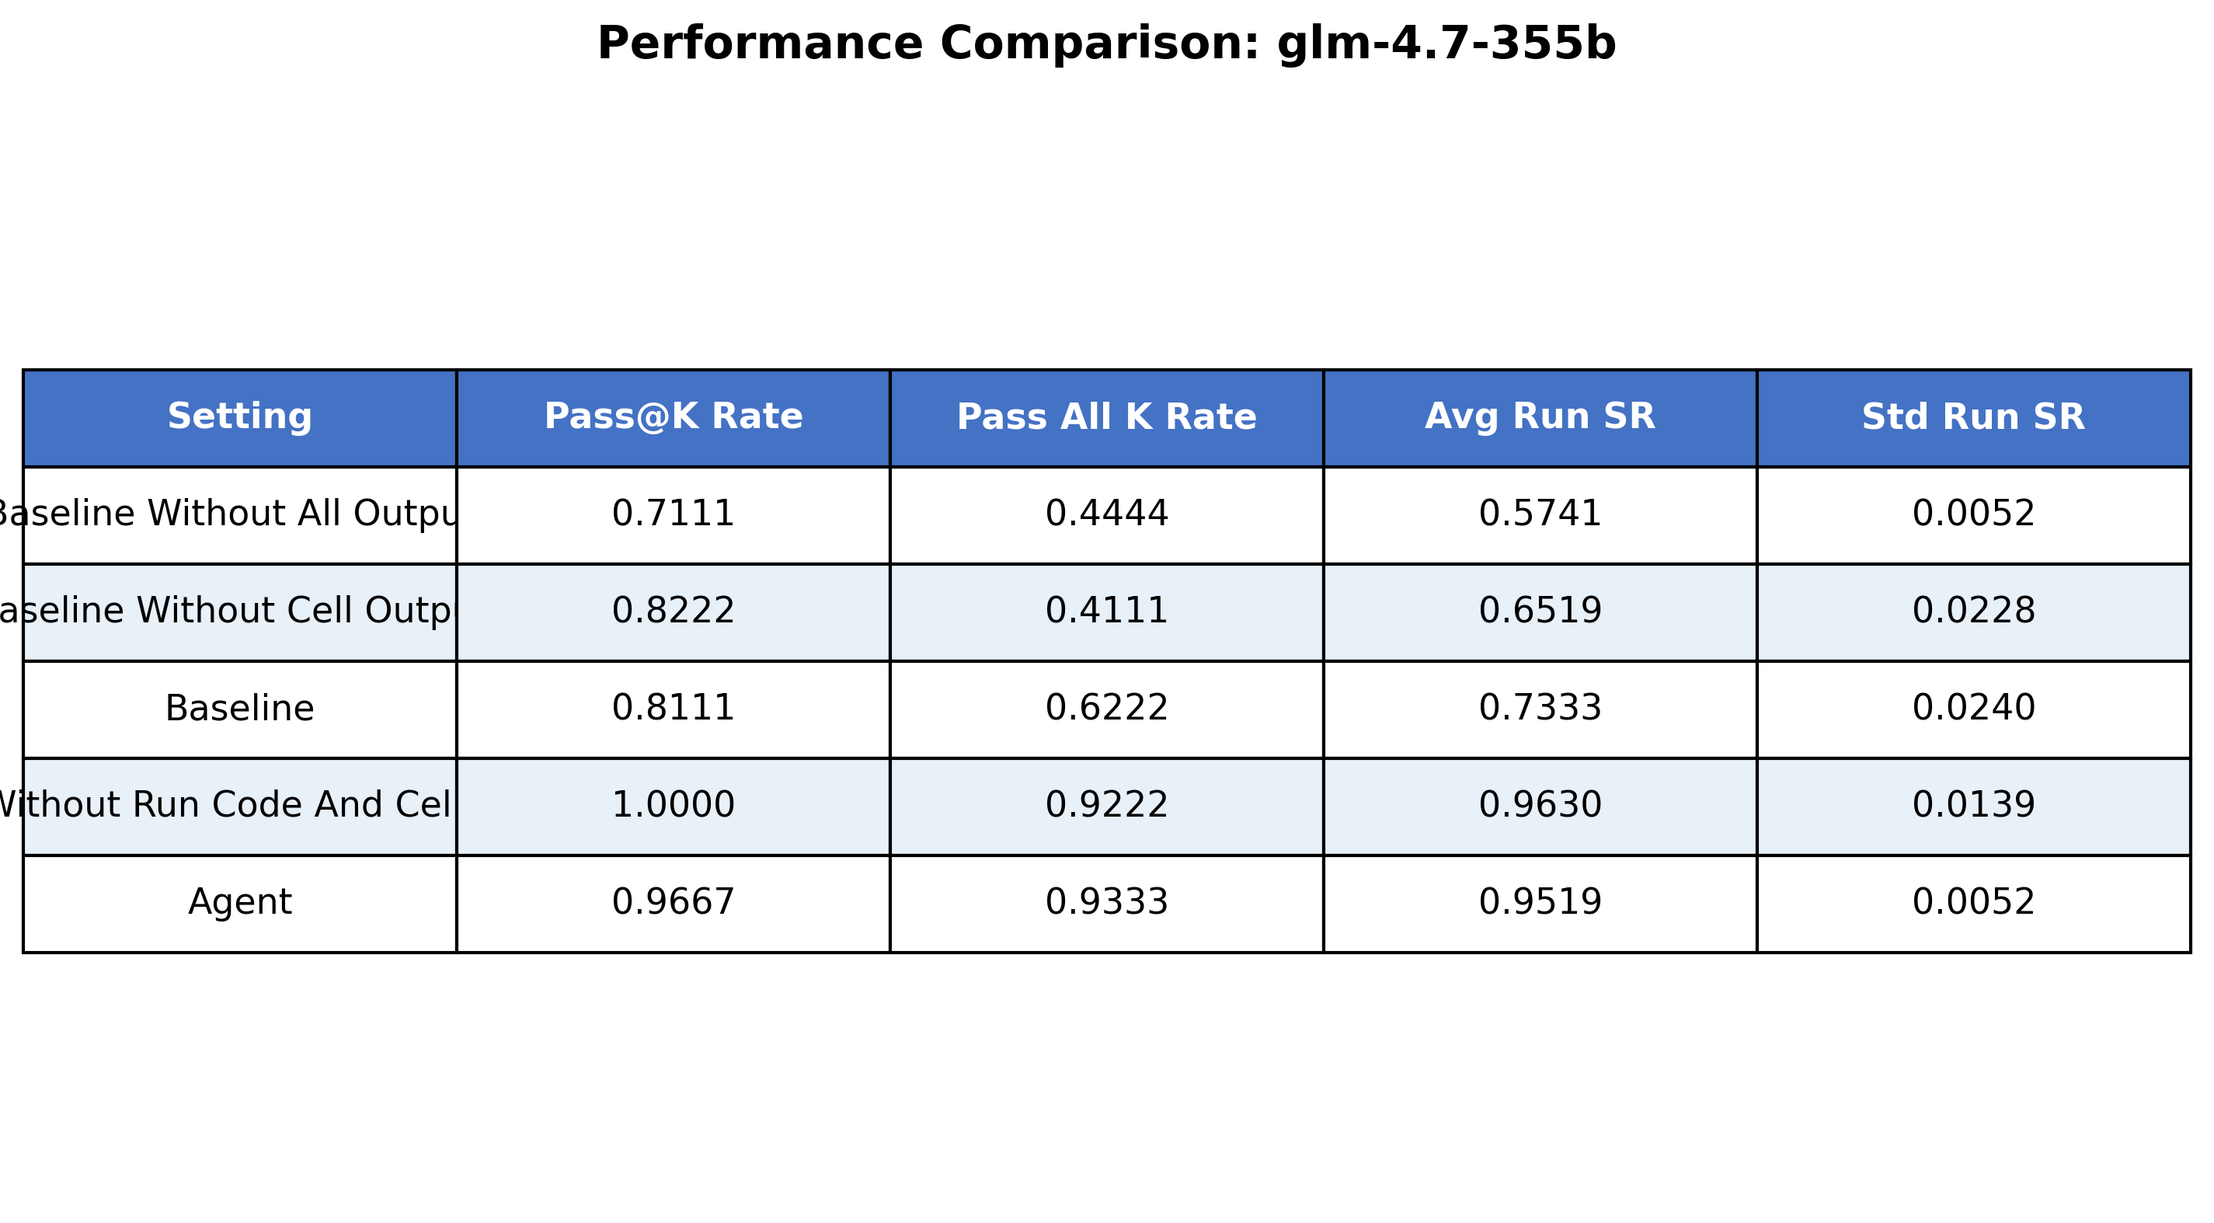
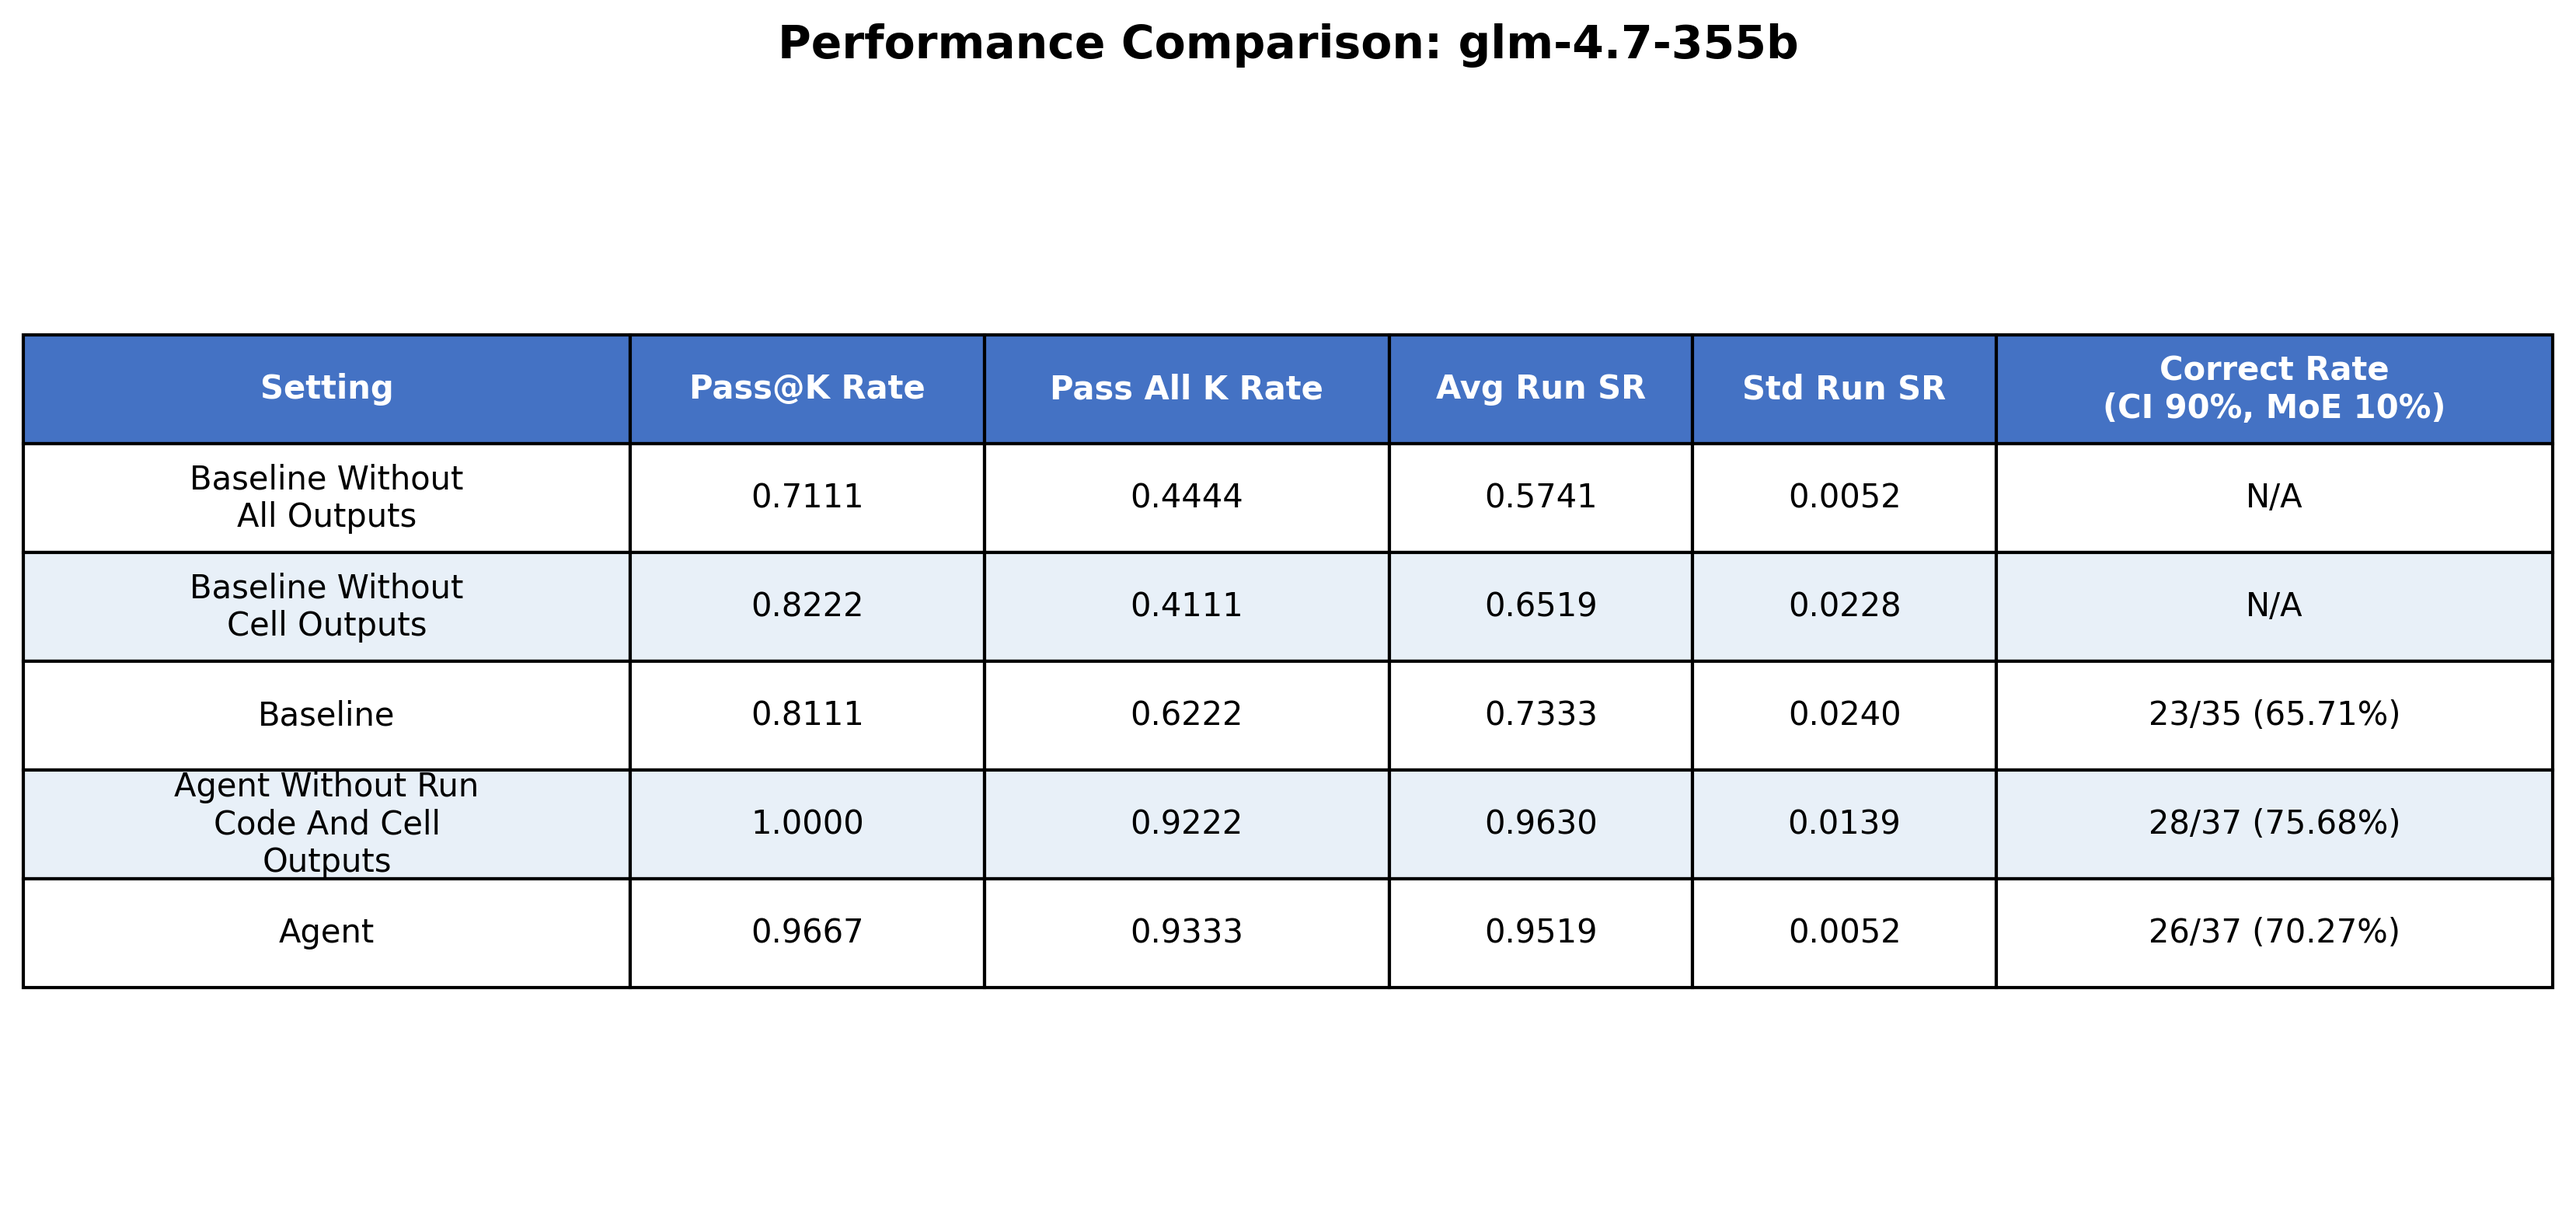
update performance summary to include manual validation

Changed region(s): [[0.0, 0.249, 0.9993, 0.8094], [0.2498, 0.0, 0.7495, 0.0623]]

diff --git a/data_analysis/summarize_plots.py b/data_analysis/summarize_plots.py
@@ -7,6 +7,7 @@ taken by the LLM agent at each step of execution.
 
 import json
 import os
+import textwrap
 from collections import defaultdict
 from pathlib import Path
 import matplotlib.pyplot as plt
@@ -356,6 +357,49 @@ def create_comparison_chart(path1: str, path2: str, title: str, output_path: Pat
     print(f"Saved comparison chart to {final_path}")
     plt.close()
 
+
+def load_manual_validation_outcome(llm_dir: Path):
+    """Load the manual validation outcome string for a model directory if available."""
+    labeled_instances_path = llm_dir / 'analysis' / 'stratified_sampled_instances_labeled.json'
+    if not labeled_instances_path.exists():
+        return None
+
+    try:
+        with open(labeled_instances_path, 'r', encoding='utf-8') as f:
+            labeled_instances = json.load(f)
+    except (OSError, json.JSONDecodeError) as e:
+        print(f"Warning: failed to load manual validation from {labeled_instances_path}: {e}")
+        return None
+
+    manual_validation = labeled_instances.get('manual_validation', {})
+    if not isinstance(manual_validation, dict):
+        return None
+
+    validation_outcome = manual_validation.get('validation_outcome')
+    if isinstance(validation_outcome, str) and validation_outcome.strip():
+        return validation_outcome
+
+    return None
+
+
+def format_setting_display_name(setting: str, width: int = 18):
+    """Format setting names for compact table display without overflowing cells."""
+    return textwrap.fill(setting.replace('_', ' ').title(), width=width)
+
+
+def get_table_column_widths(columns):
+    """Return matplotlib table column widths tuned for the comparison output."""
+    widths = {
+        'Setting': 0.24,
+        'Pass@K Rate': 0.14,
+        'Pass All K Rate': 0.16,
+        'Avg Run SR': 0.12,
+        'Std Run SR': 0.12,
+        'Correct Rate\n(CI 90%, MoE 10%)': 0.22,
+    }
+    default_width = 1.0 / max(len(columns), 1)
+    return [widths.get(column, default_width) for column in columns]
+
 def main(base_dir: Path):
     """Main function to generate all plots."""
     output_dir = base_dir / 'plots'
@@ -386,25 +430,8 @@ def main(base_dir: Path):
 def compare_performance_across_settings(results_dir: str = 'results', 
                                        settings: list = None,
                                        output_dir: str = None):
-    """
-    Compare performance metrics (pass@k rate, pass all k rate, average and std of run success rates)
-    across different settings and LLMs.
-    
-    Loads data from overall_summary.json files in results/{setting}/{llm}/
-    and creates separate comparison tables for each LLM with metrics:
-    - Pass@K Rate: Fraction of instances with at least one successful run
-    - Pass All K Rate: Fraction of instances where all K runs are successful
-    - Avg Run SR: Average success rate across all 3 runs
-    - Std Run SR: Standard deviation of success rates across the 3 runs
-    
-    Args:
-        results_dir: Path to the results directory (default: 'results')
-        settings: List of settings to compare (default: ['baseline', 'without_run_code', 'agent'])
-        output_dir: Directory to save output files (default: results_dir/data_analysis)
-    
-    Returns:
-        dict: Dictionary mapping LLM name to DataFrame with performance comparison for that LLM
-    """
+    correct_rate_col = 'Correct Rate\n(CI 90%, MoE 10%)'
+
     if settings is None:
         settings = ['baseline', 'without_run_code', 'agent']
     
@@ -458,6 +485,7 @@ def compare_performance_across_settings(results_dir: str = 'results',
                 run_sr_valid = [x for x in run_sr if not np.isnan(x)]
                 avg_run_sr = np.mean(run_sr_valid) if run_sr_valid else np.nan
                 std_run_sr = np.std(run_sr_valid) if len(run_sr_valid) > 1 else np.nan
+                manual_validation_outcome = load_manual_validation_outcome(llm_dir)
                 
                 row = {
                     'Setting': setting,
@@ -465,6 +493,7 @@ def compare_performance_across_settings(results_dir: str = 'results',
                     'Pass All K Rate': outcome_dist.get('pass_all_k_rate', np.nan),
                     'Avg Run SR': avg_run_sr,
                     'Std Run SR': std_run_sr,
+                    correct_rate_col: manual_validation_outcome,
                 }
                 
                 data_by_llm[llm_name].append(row)
@@ -493,30 +522,36 @@ def compare_performance_across_settings(results_dir: str = 'results',
         all_dfs[llm_name] = df
         
         # Create a formatted table visualization
-        fig, ax = plt.subplots(figsize=(12, 6))
+        fig, ax = plt.subplots(figsize=(14, 6))
         ax.axis('tight')
         ax.axis('off')
         
         # Format dataframe for display (round to 4 decimal places)
         df_display = df.copy()
-        df_display['Setting'] = df_display['Setting'].str.replace('_', ' ').str.title()
+        df_display['Setting'] = df_display['Setting'].apply(format_setting_display_name)
         for col in ['Pass@K Rate', 'Pass All K Rate', 'Avg Run SR', 'Std Run SR']:
             if col in df_display.columns:
                 df_display[col] = df_display[col].apply(lambda x: f"{x:.4f}" if pd.notna(x) else "N/A")
+        if correct_rate_col in df_display.columns:
+            df_display[correct_rate_col] = df_display[correct_rate_col].apply(
+                lambda x: x if isinstance(x, str) and x.strip() else 'N/A'
+            )
         
         # Create table
         table = ax.table(cellText=df_display.values, colLabels=df_display.columns,
-                         cellLoc='center', loc='center', 
+                         cellLoc='center', loc='center',
+                         colWidths=get_table_column_widths(list(df_display.columns)),
                          colColours=['#f0f0f0'] * len(df_display.columns))
         
         table.auto_set_font_size(False)
-        table.set_fontsize(11)
-        table.scale(1, 2.5)
+        table.set_fontsize(10)
+        table.scale(1, 2.8)
         
         # Alternate row colors
         for i in range(len(df_display) + 1):
             for j in range(len(df_display.columns)):
                 cell = table[(i, j)]
+                cell.get_text().set_wrap(True)
                 if i == 0:
                     cell.set_facecolor('#4472C4')
                     cell.set_text_props(weight='bold', color='white')
